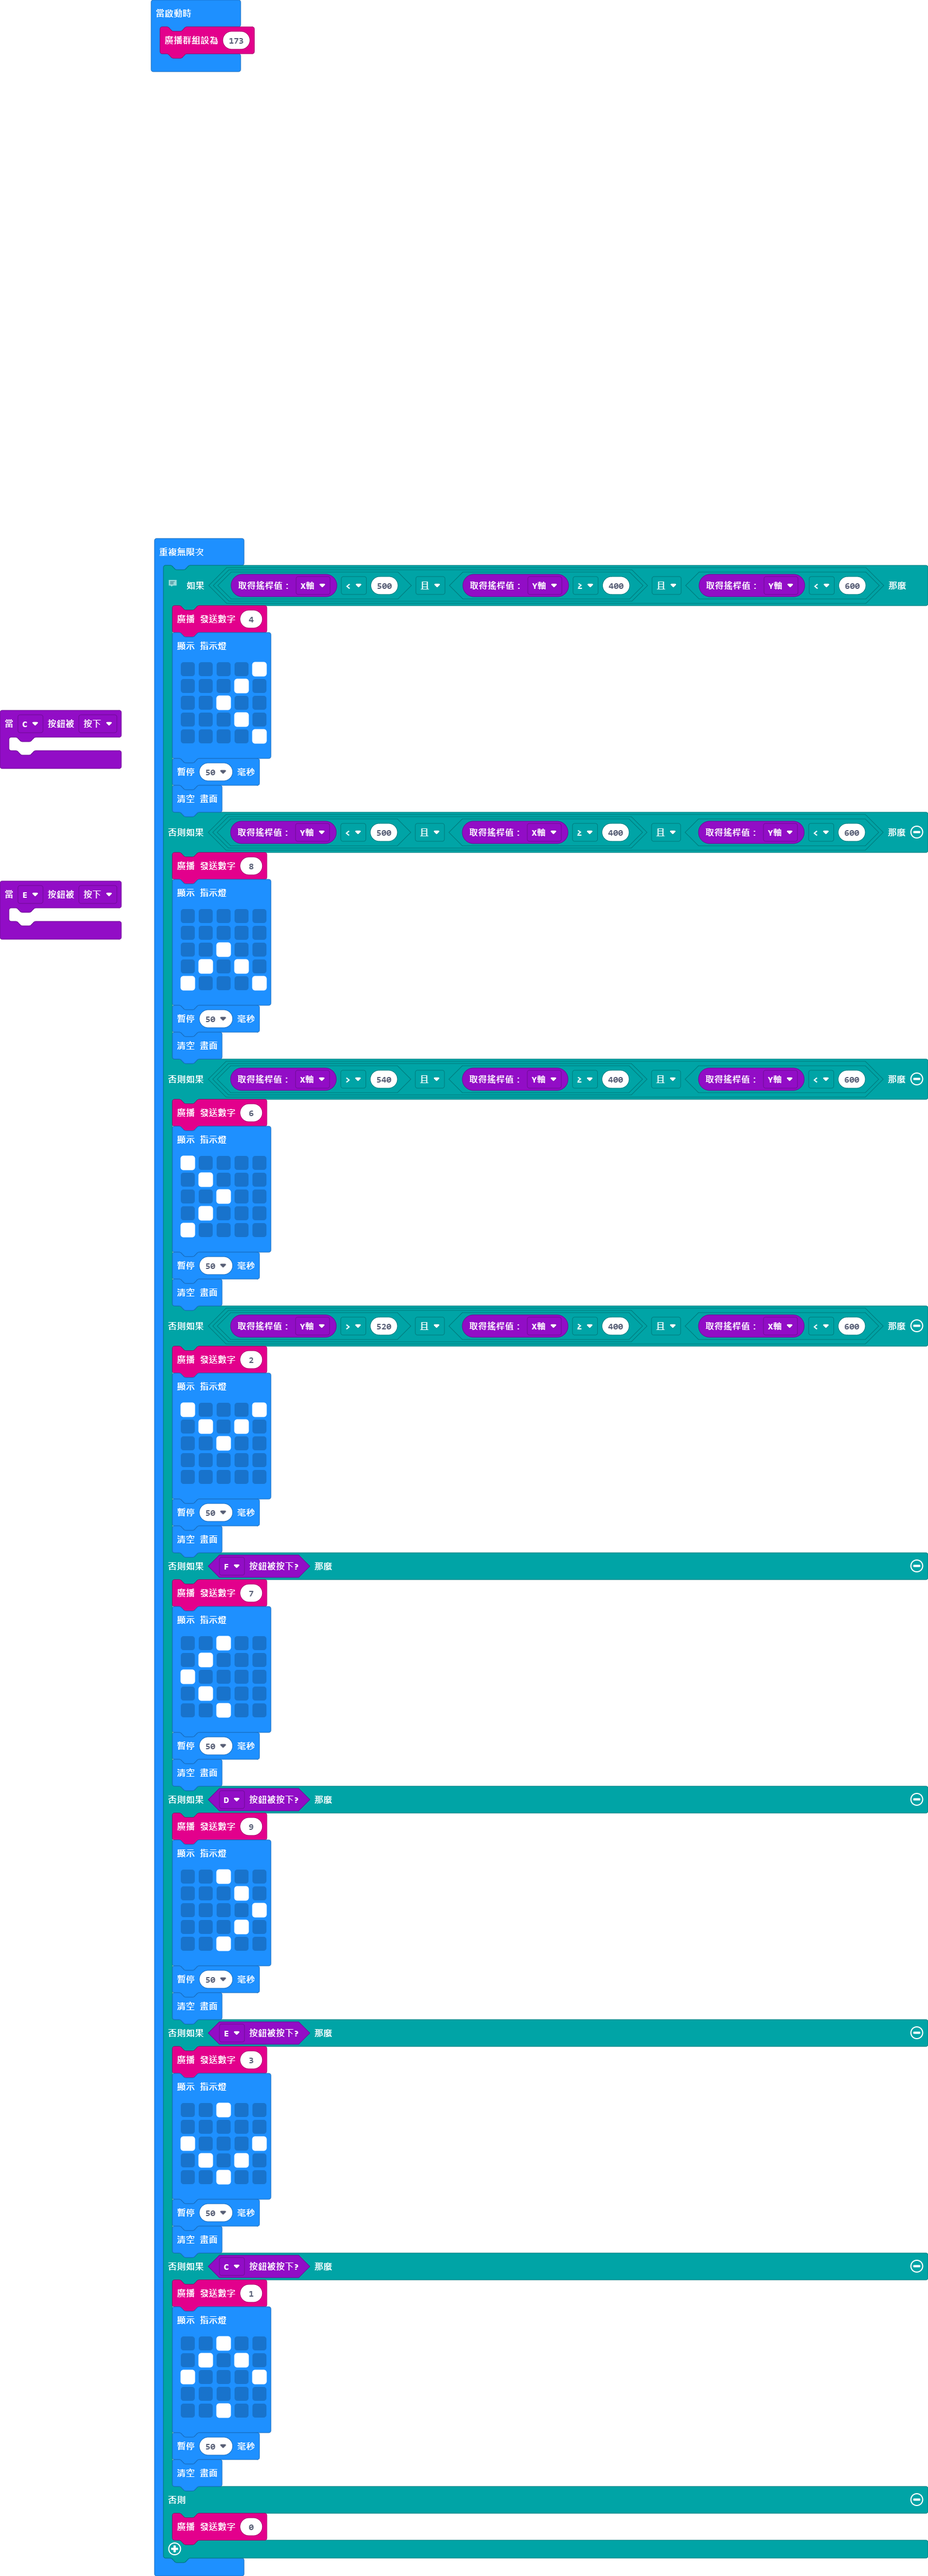
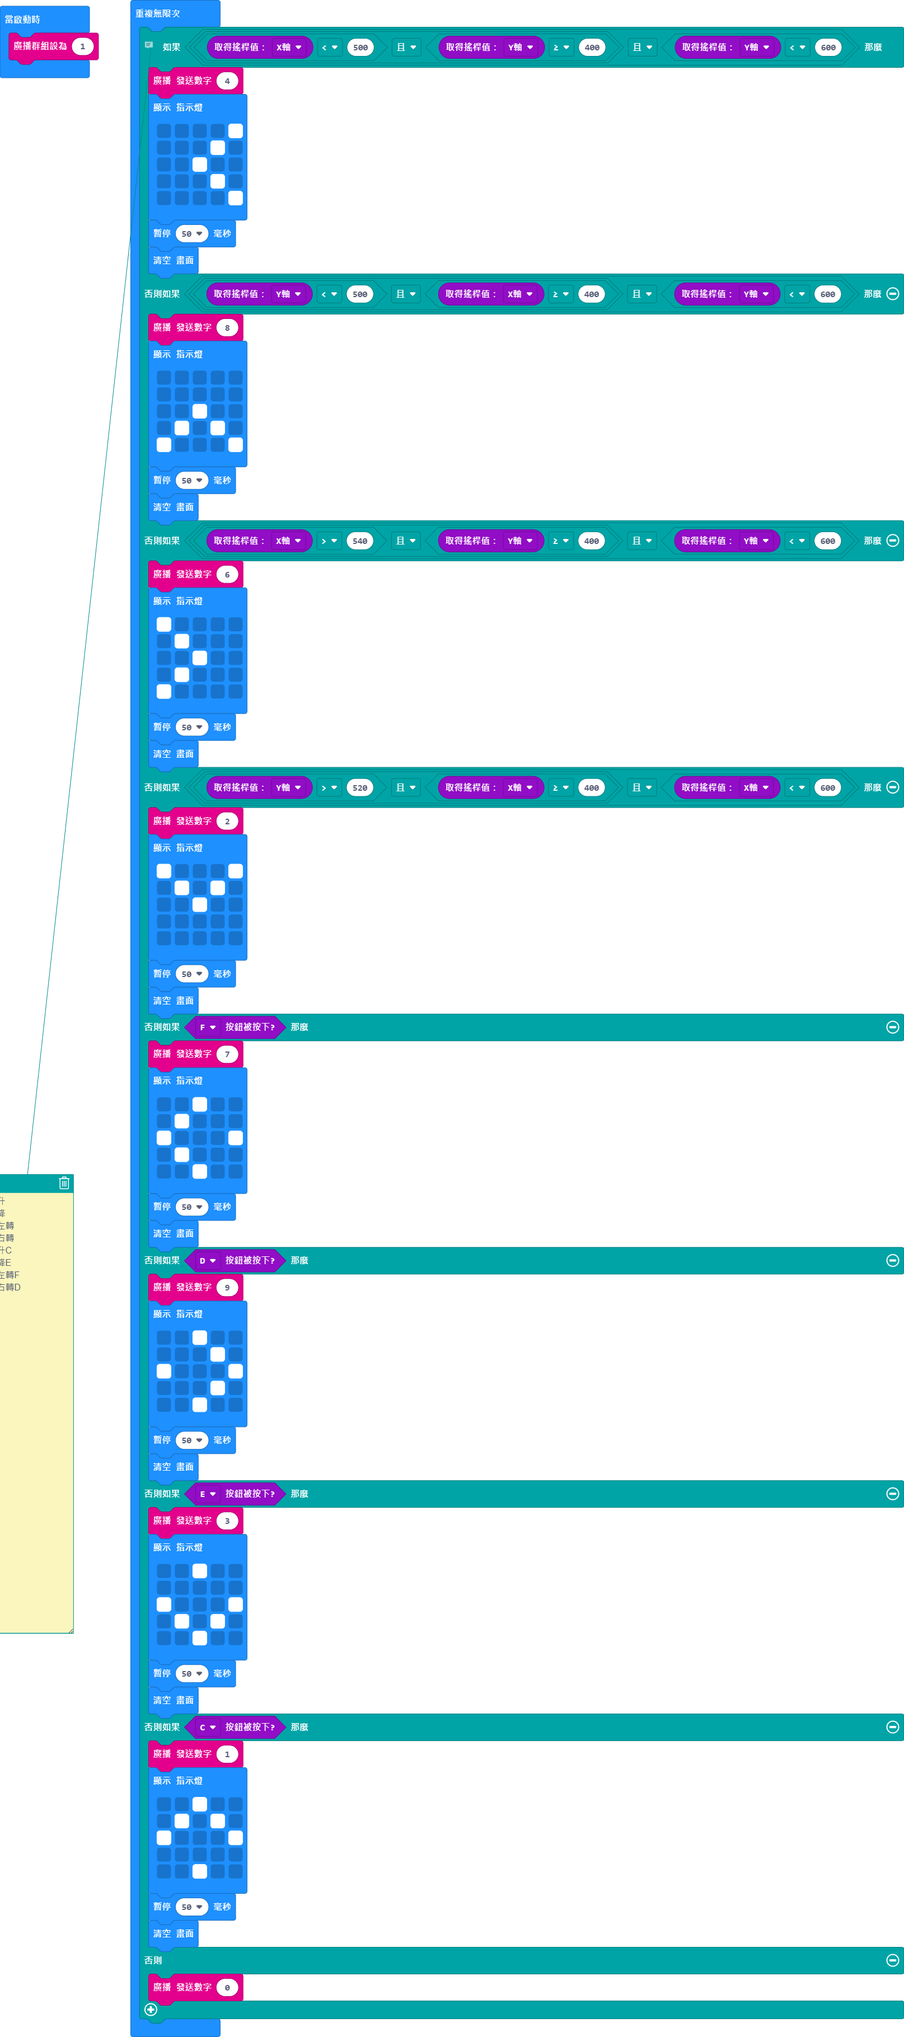
更改控制模式註解及廣播系統

diff --git a/main.ts b/main.ts
@@ -1,15 +1,14 @@
-KSB045.onBtnChanged(KSB045.btnName.C, KSB045.pushType.down, function () {
-	
-})
-KSB045.onBtnChanged(KSB045.btnName.E, KSB045.pushType.down, function () {
-	
-})
-radio.setGroup(173)
+radio.setGroup(1)
 basic.forever(function () {
-    // 8 上升
-    // 2 下降
-    // 4 向左轉
-    // 6 向右轉
+    // 8上升
+    // 2下降
+    // 4向左轉
+    // 6向右轉
+    // 1上升C
+    // 3下降E
+    // 7向左轉F
+    // 9向右轉D
+    // 
     if (KSB045.getJoystickValue(KSB045.valueType.X) < 500 && KSB045.getJoystickValue(KSB045.valueType.Y) >= 400 && KSB045.getJoystickValue(KSB045.valueType.Y) < 600) {
         radio.sendNumber(4)
         basic.showLeds(`
@@ -59,7 +58,7 @@ basic.forever(function () {
         basic.showLeds(`
             . . # . .
             . # . . .
-            # . . . .
+            # . . . #
             . # . . .
             . . # . .
             `)
@@ -70,7 +69,7 @@ basic.forever(function () {
         basic.showLeds(`
             . . # . .
             . . . # .
-            . . . . #
+            # . . . #
             . . . # .
             . . # . .
             `)
